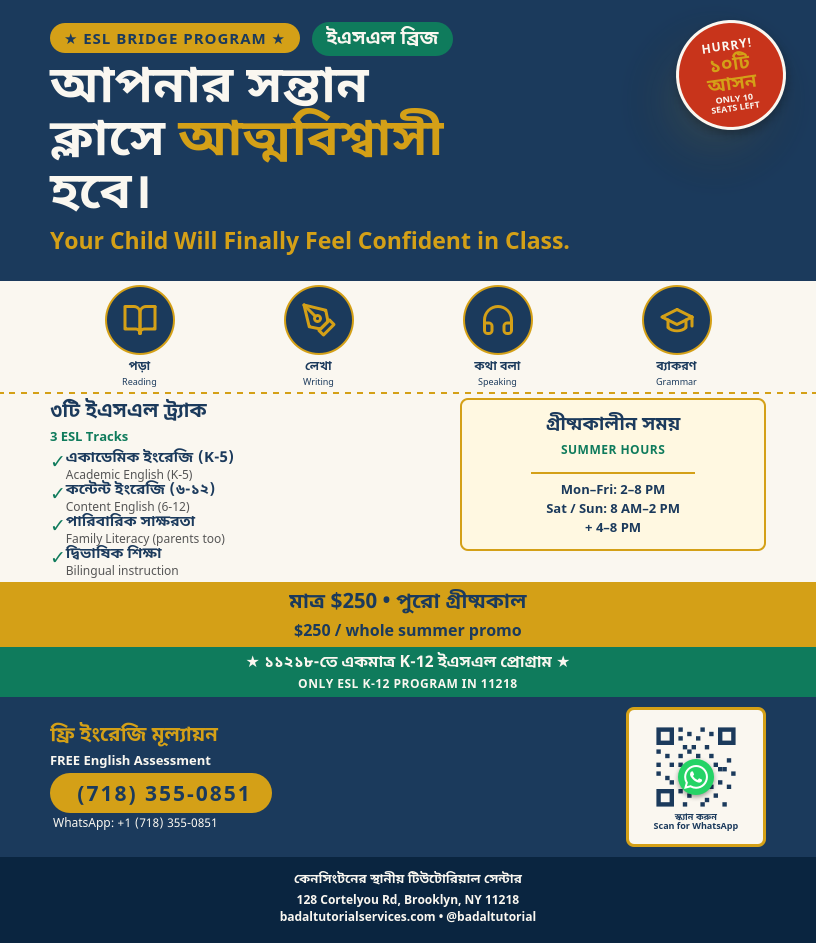
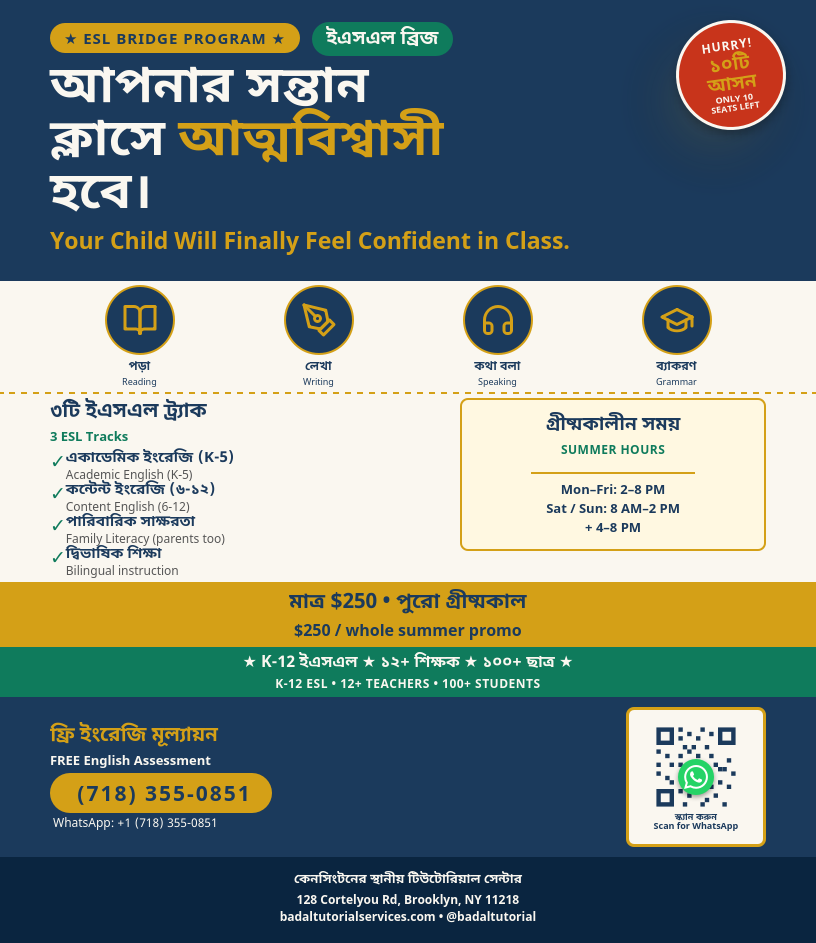
Replace '3 students admitted' with 12+ teachers / 100+ students
All 3 trust strips now: K-12 • 12+ TEACHERS • 100+ STUDENTS.
SHSAT illustration label changed: 3 Admitted → 12+ Teachers.

Changed region(s): [[0.3064, 0.6766, 0.7047, 0.7381]]

diff --git a/flyers/shsat-bn.html b/flyers/shsat-bn.html
@@ -136,8 +136,8 @@
           <path d="M18 2H6v7a6 6 0 0 0 12 0V2Z"/>
         </svg>
       </div>
-      <div class="illust-label">৩ জন ভর্তি</div>
-      <div class="illust-label-en">3 Admitted</div>
+      <div class="illust-label">১২+ শিক্ষক</div>
+      <div class="illust-label-en">12+ Teachers</div>
     </div>
   </div>
 
@@ -192,8 +192,8 @@
   </div>
 
   <div class="trust">
-    <div class="trust-bn">★ K-12 ★ ২০২৪ সালে ৩ ছাত্র ভর্তি ★ বাংলা টিউটর ★ কেনসিংটন</div>
-    <div class="trust-en">K-12 • 3 STUDENTS ADMITTED 2024 • BENGALI TUTORS • KENSINGTON</div>
+    <div class="trust-bn">★ K-12 ★ ১২+ শিক্ষক ★ ১০০+ ছাত্র ★ কেনসিংটন</div>
+    <div class="trust-en">K-12 • 12+ TEACHERS • 100+ STUDENTS • KENSINGTON</div>
   </div>
 
   <div class="cta">

diff --git a/flyers/regents-bn.html b/flyers/regents-bn.html
@@ -196,8 +196,8 @@
   </div>
 
   <div class="trust">
-    <div class="trust-bn">★ K-12 সব ক্লাস ★ বাংলাভাষী টিউটর ★ কেনসিংটন ★</div>
-    <div class="trust-en">K-12 ALL GRADES • BENGALI TUTORS • KENSINGTON</div>
+    <div class="trust-bn">★ K-12 সব ক্লাস ★ ১২+ শিক্ষক ★ ১০০+ ছাত্র ★</div>
+    <div class="trust-en">K-12 • 12+ TEACHERS • 100+ STUDENTS • KENSINGTON</div>
   </div>
 
   <div class="cta">

diff --git a/flyers/esl-bn.html b/flyers/esl-bn.html
@@ -190,8 +190,8 @@
   </div>
 
   <div class="trust">
-    <div class="trust-bn">★ ১১২১৮-তে একমাত্র K-12 ইএসএল প্রোগ্রাম ★</div>
-    <div class="trust-en">ONLY ESL K-12 PROGRAM IN 11218</div>
+    <div class="trust-bn">★ K-12 ইএসএল ★ ১২+ শিক্ষক ★ ১০০+ ছাত্র ★</div>
+    <div class="trust-en">K-12 ESL • 12+ TEACHERS • 100+ STUDENTS</div>
   </div>
 
   <div class="cta">
